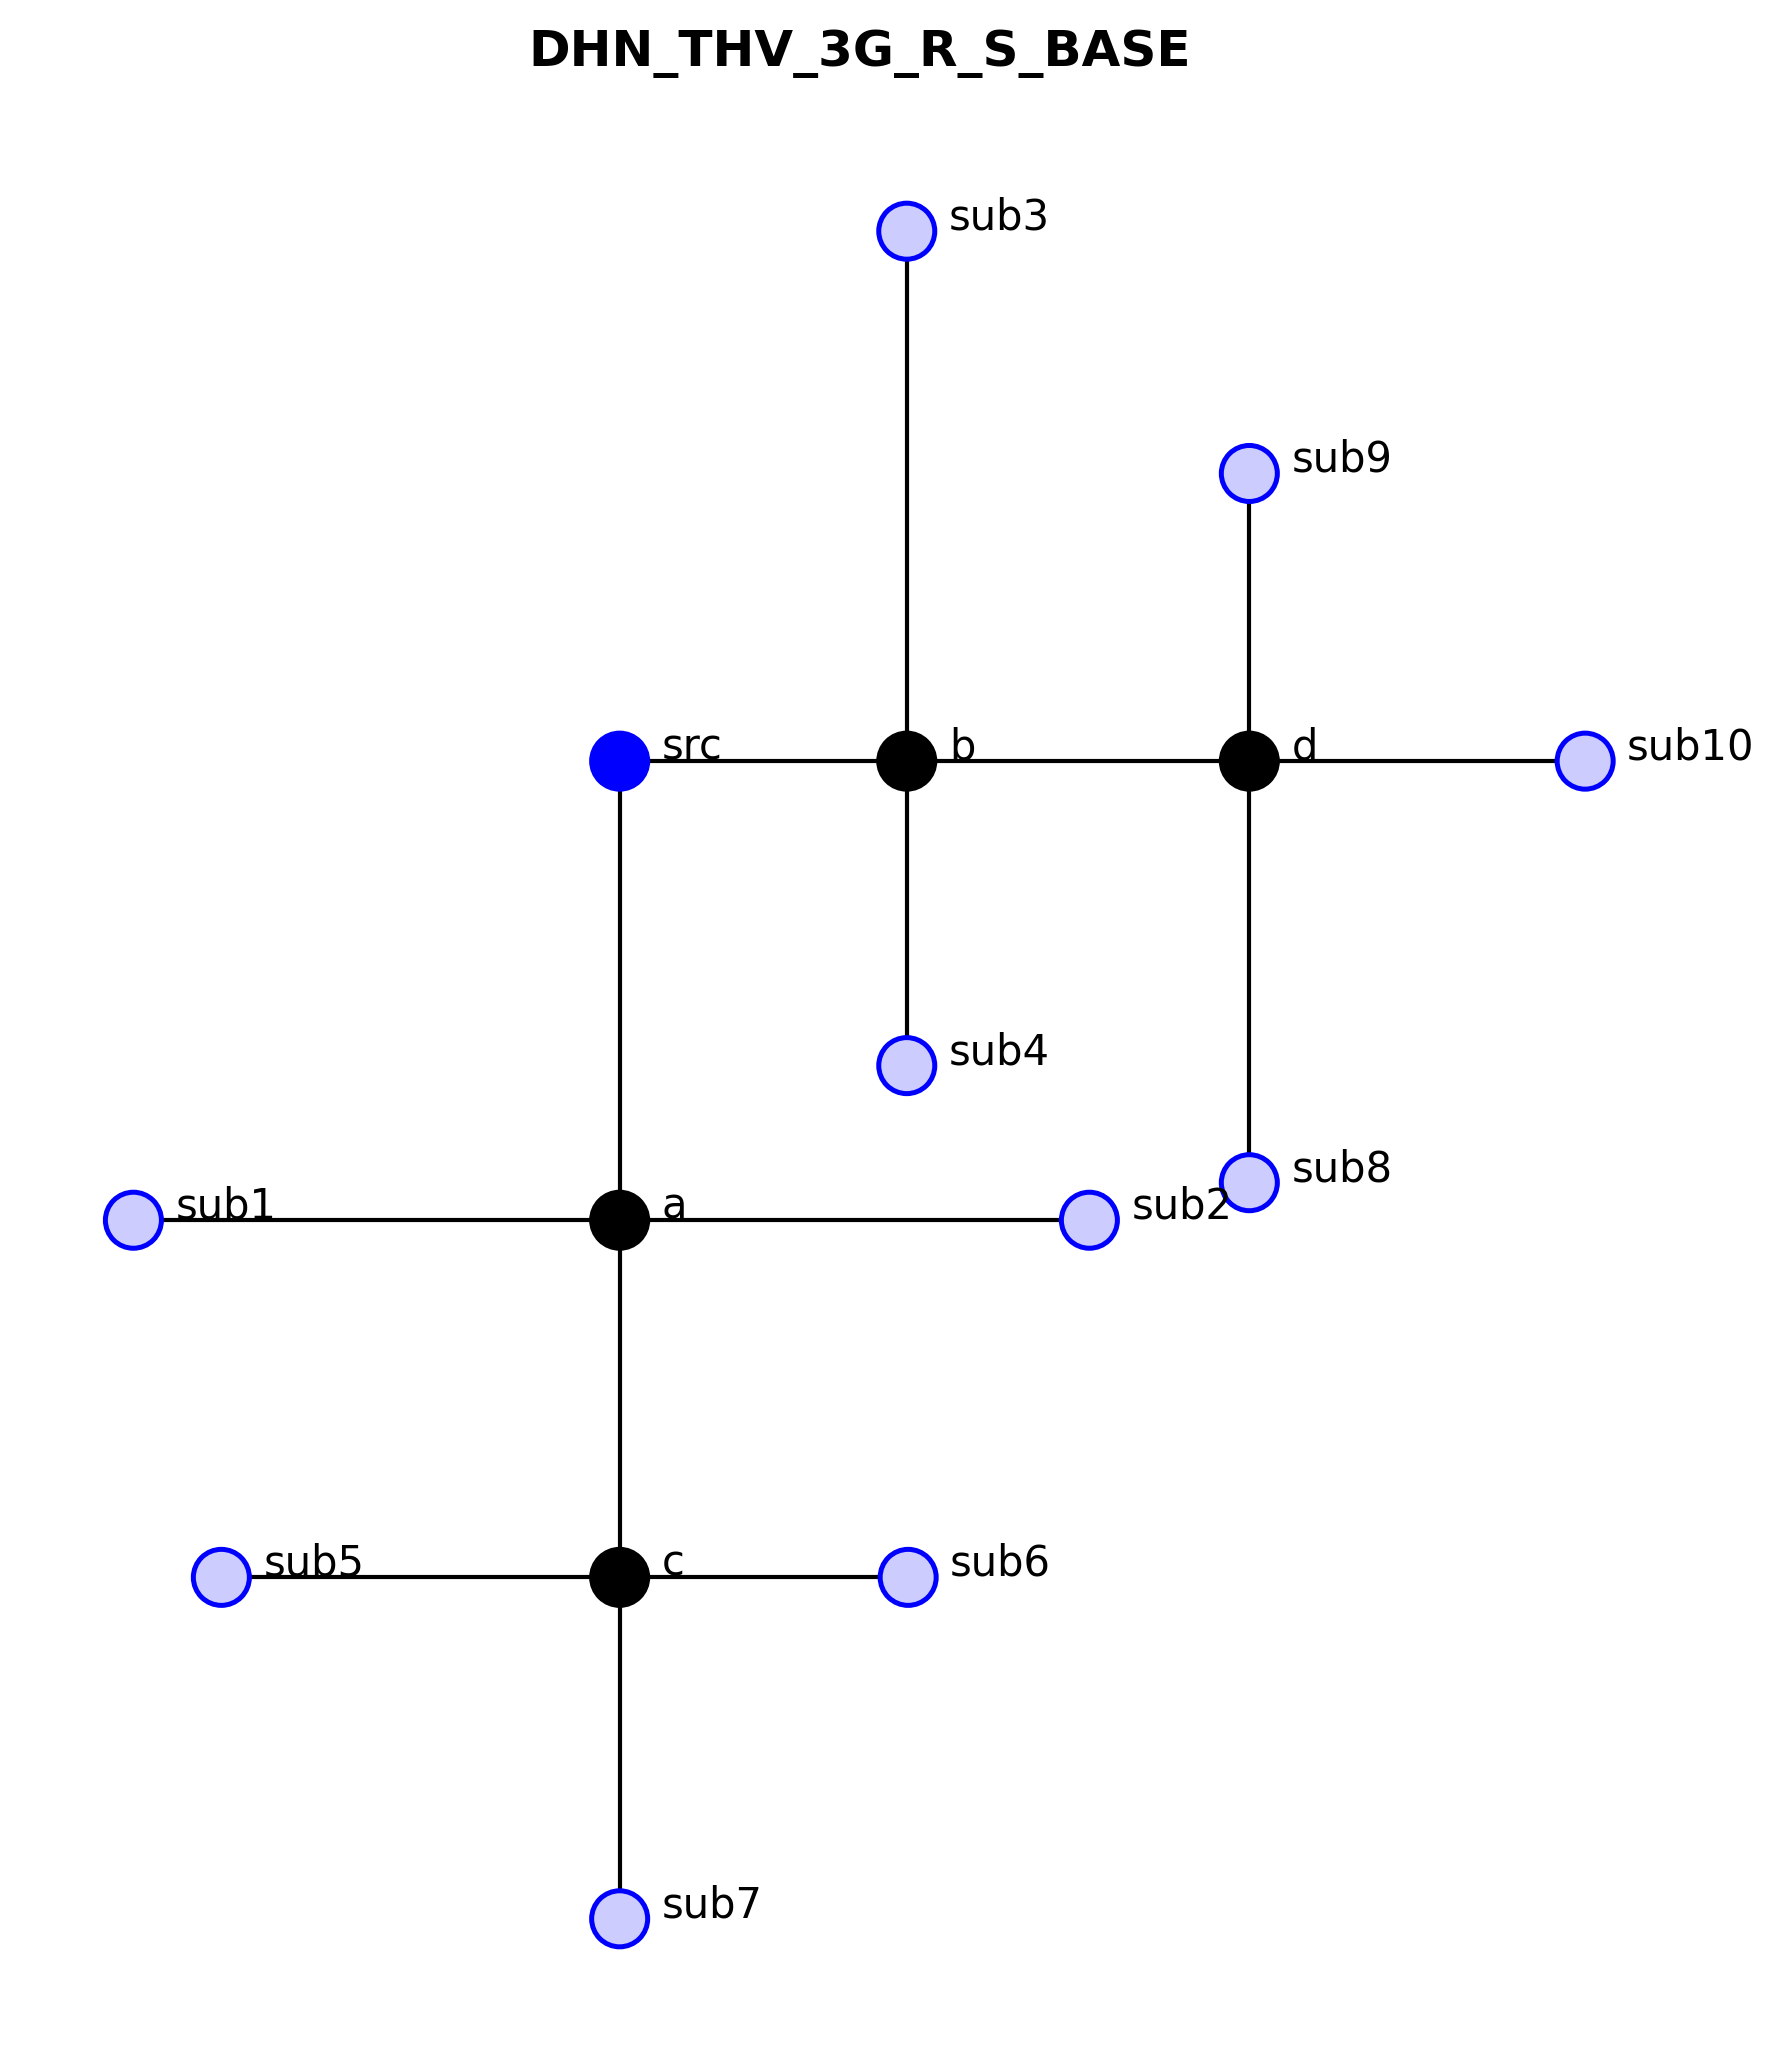
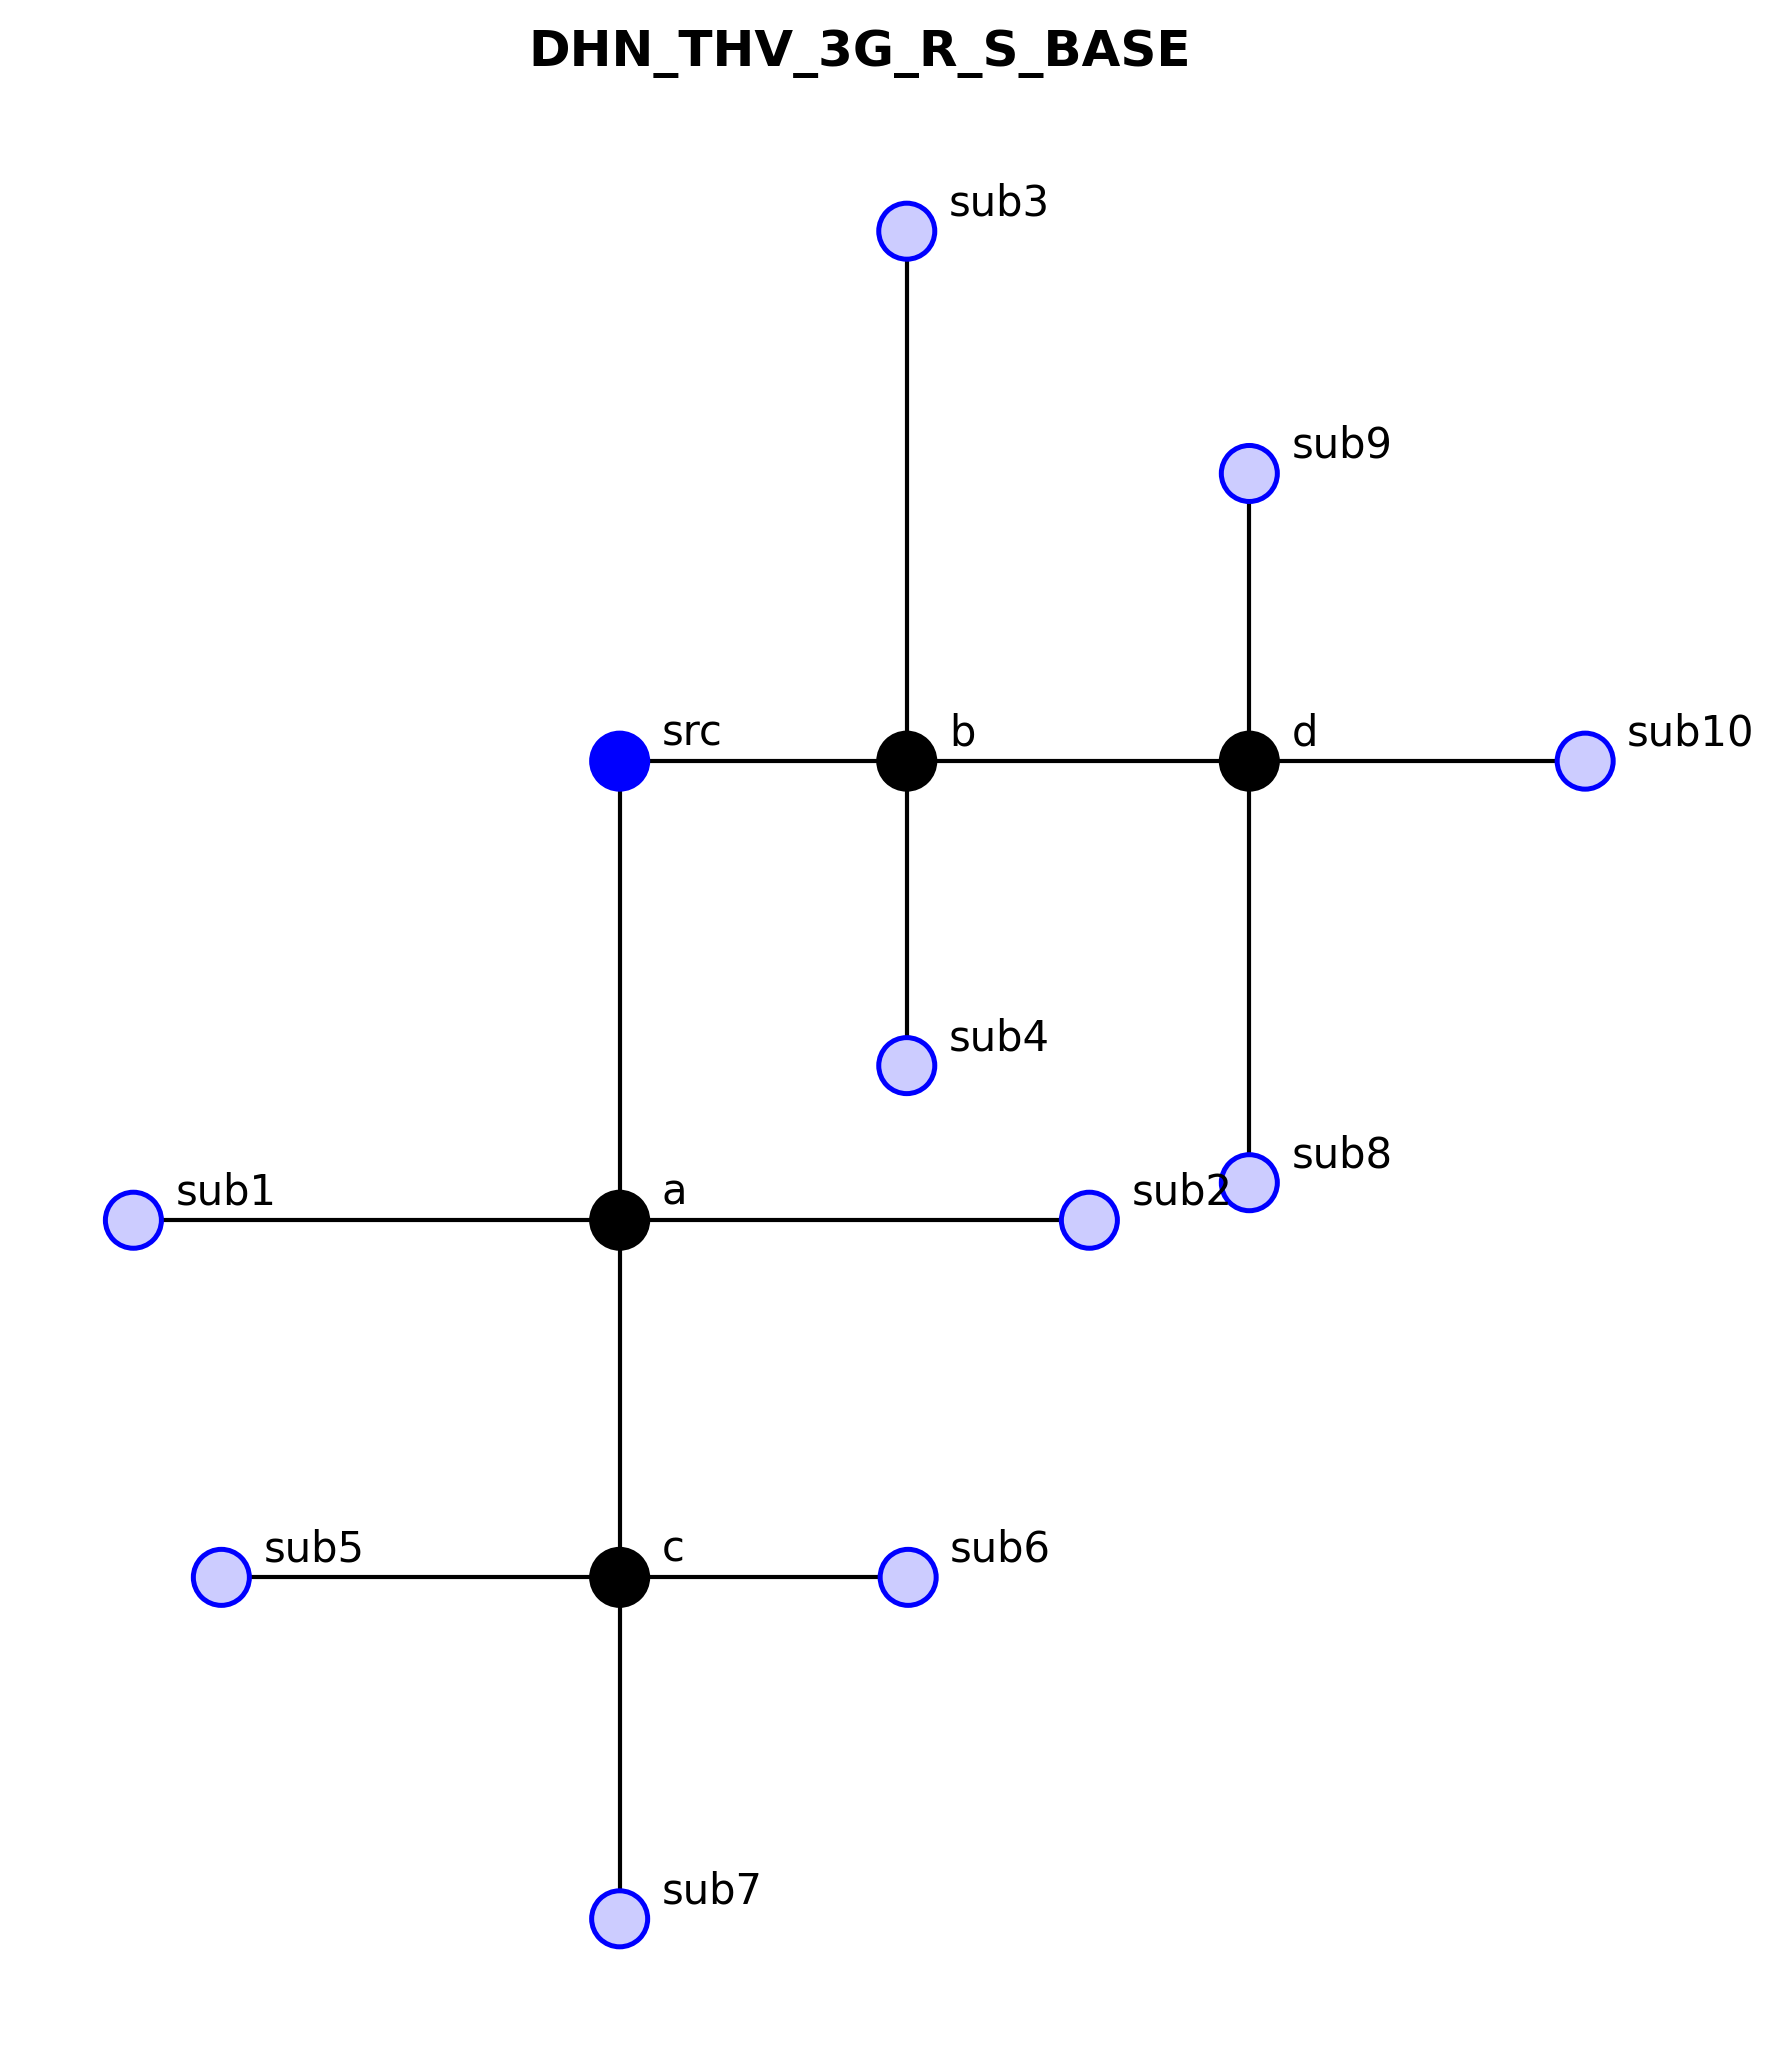
Archetypes implementation

diff --git a/dhn_benchmark/plotting.py b/dhn_benchmark/plotting.py
@@ -78,7 +78,7 @@ def plot_topology(nodes, edges, title="DHN_Network",
         if label_offsets and nid in label_offsets:
             dx, dy, ha, va = label_offsets[nid]
         else:
-            dx, dy, ha, va = r + 5, 5, "left", "center"
+            dx, dy, ha, va = r + 5, 10, "left", "center"
         ax.text(
             x + dx, -y + dy, nid,
             ha=ha, va=va,
